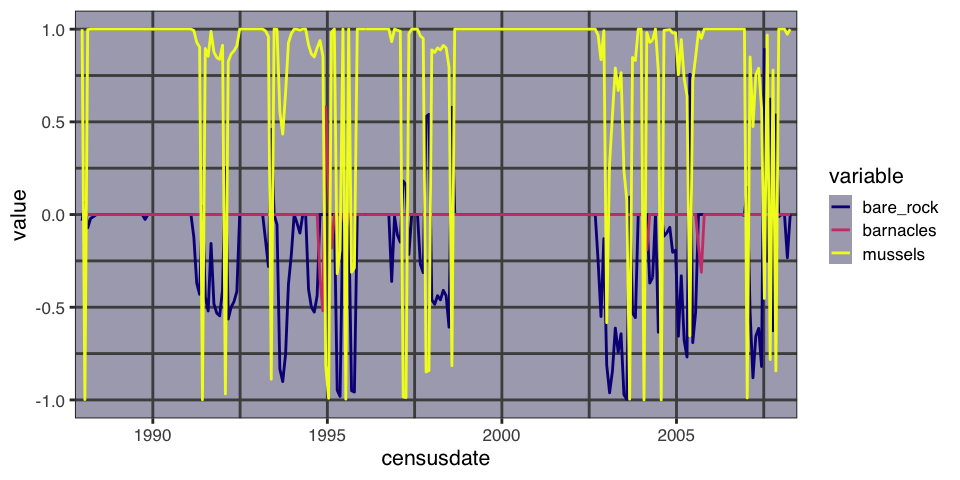
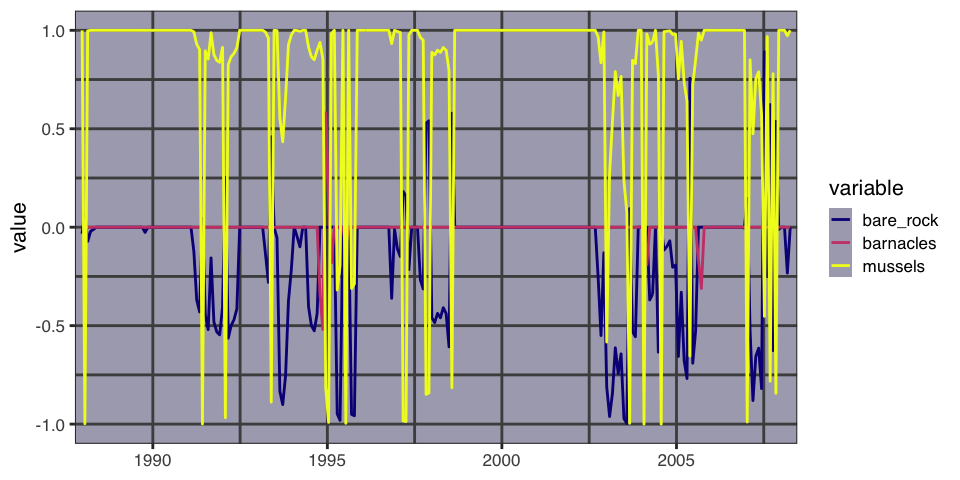
update intertidal analysis

Changed region(s): [[0.0, 0.0312, 1.0, 0.9688]]

diff --git a/analysis/intertidal_analysis.md b/analysis/intertidal_analysis.md
@@ -1,7 +1,7 @@
 Rocky Intertidal Dynamic Stability Analysis
 ================
 Hao Ye
-2019-11-13
+2019-11-14
 
 # Introduction
 
@@ -40,7 +40,7 @@ block <- readxl::read_excel(here::here("inst/extdata/pnas.1421968112.sd01.xlsx")
 #> * `` -> ...6
 #> * `` -> ...7
 #> * `` -> ...8
-names(block) <- c("censusdate", "barnacles", "crustose_algae", "mussels", "bare_rock")
+names(block) <- c("date", "barnacles", "crustose_algae", "mussels", "bare_rock")
 ```
 
 ## Analysis
@@ -52,7 +52,7 @@ or (eventual methdos write-up).
 
 ``` r
 results_file <- here::here("output/rocky_intertidal_ds_results.RDS")
-results <- compute_dynamic_stability(block, results_file)
+results <- compute_dynamic_stability(block, results_file, id_var = "date")
 str(results, max.level = 1)
 #> List of 11
 #>  $ block             :Classes 'tbl_df', 'tbl' and 'data.frame':  251 obs. of  5 variables:
@@ -75,7 +75,7 @@ str(results, max.level = 1)
 ## Abundance time series
 
 ``` r
-plot_time_series(results$block)
+plot_time_series(results$block, time_column = "date")
 ```
 
 ![](intertidal_analysis_files/figure-gfm/unnamed-chunk-3-1.png)<!-- -->
